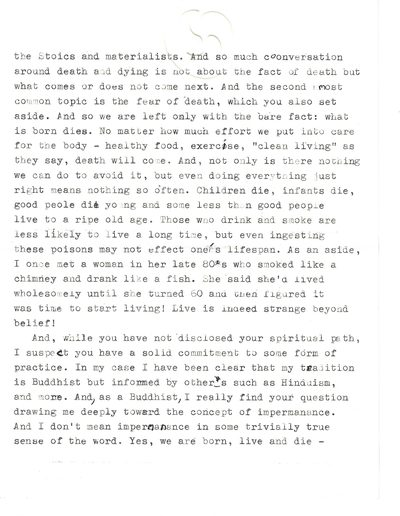
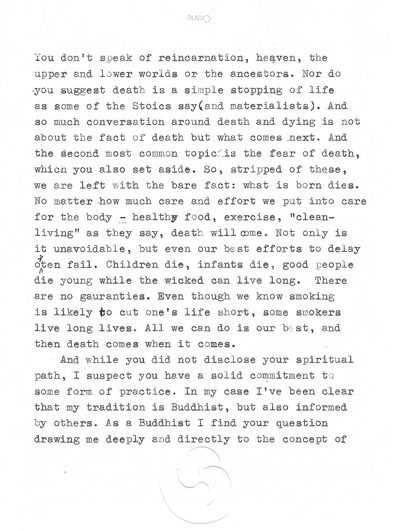
Add files via upload

Changed region(s): [[0.03, 0.093, 0.93, 0.8992], [0.45, 0.8992, 0.48, 0.9302]]

diff --git a/archive/001/index.html b/archive/001/index.html
@@ -87,13 +87,14 @@ h1.km-title { font-size: 24pt; font-weight: 700; text-align: center; margin-bott
   </div>
   <div class="km-section" id="reply-1">
     <h3>The Reply</h3>
-    <div class="km-page"><img src="../../images/correspondence/001_2026-09-20/reply_p1.jpg" alt="Reply from the Kalyanamitra, page 1 of 7 — Correspondence No. 1, So, What Is Death?"><div class="km-pagenum">Page 1 of 7</div></div>
-    <div class="km-page"><img src="../../images/correspondence/001_2026-09-20/reply_p2.jpg" alt="Reply from the Kalyanamitra, page 2 of 7 — Correspondence No. 1, So, What Is Death?"><div class="km-pagenum">Page 2 of 7</div></div>
-    <div class="km-page"><img src="../../images/correspondence/001_2026-09-20/reply_p3.jpg" alt="Reply from the Kalyanamitra, page 3 of 7 — Correspondence No. 1, So, What Is Death?"><div class="km-pagenum">Page 3 of 7</div></div>
-    <div class="km-page"><img src="../../images/correspondence/001_2026-09-20/reply_p4.jpg" alt="Reply from the Kalyanamitra, page 4 of 7 — Correspondence No. 1, So, What Is Death?"><div class="km-pagenum">Page 4 of 7</div></div>
-    <div class="km-page"><img src="../../images/correspondence/001_2026-09-20/reply_p5.jpg" alt="Reply from the Kalyanamitra, page 5 of 7 — Correspondence No. 1, So, What Is Death?"><div class="km-pagenum">Page 5 of 7</div></div>
-    <div class="km-page"><img src="../../images/correspondence/001_2026-09-20/reply_p6.jpg" alt="Reply from the Kalyanamitra, page 6 of 7 — Correspondence No. 1, So, What Is Death?"><div class="km-pagenum">Page 6 of 7</div></div>
-    <div class="km-page"><img src="../../images/correspondence/001_2026-09-20/reply_p7.jpg" alt="Reply from the Kalyanamitra, page 7 of 7 — Correspondence No. 1, So, What Is Death?"><div class="km-pagenum">Page 7 of 7</div></div>
+    <div class="km-page"><img src="../../images/correspondence/001_2026-09-20/reply_p1.jpg" alt="Reply from the Kalyanamitra, page 1 of 8 — Correspondence No. 1, So, What Is Death?"><div class="km-pagenum">Page 1 of 8</div></div>
+    <div class="km-page"><img src="../../images/correspondence/001_2026-09-20/reply_p2.jpg" alt="Reply from the Kalyanamitra, page 2 of 8 — Correspondence No. 1, So, What Is Death?"><div class="km-pagenum">Page 2 of 8</div></div>
+    <div class="km-page"><img src="../../images/correspondence/001_2026-09-20/reply_p3.jpg" alt="Reply from the Kalyanamitra, page 3 of 8 — Correspondence No. 1, So, What Is Death?"><div class="km-pagenum">Page 3 of 8</div></div>
+    <div class="km-page"><img src="../../images/correspondence/001_2026-09-20/reply_p4.jpg" alt="Reply from the Kalyanamitra, page 4 of 8 — Correspondence No. 1, So, What Is Death?"><div class="km-pagenum">Page 4 of 8</div></div>
+    <div class="km-page"><img src="../../images/correspondence/001_2026-09-20/reply_p5.jpg" alt="Reply from the Kalyanamitra, page 5 of 8 — Correspondence No. 1, So, What Is Death?"><div class="km-pagenum">Page 5 of 8</div></div>
+    <div class="km-page"><img src="../../images/correspondence/001_2026-09-20/reply_p6.jpg" alt="Reply from the Kalyanamitra, page 6 of 8 — Correspondence No. 1, So, What Is Death?"><div class="km-pagenum">Page 6 of 8</div></div>
+    <div class="km-page"><img src="../../images/correspondence/001_2026-09-20/reply_p7.jpg" alt="Reply from the Kalyanamitra, page 7 of 8 — Correspondence No. 1, So, What Is Death?"><div class="km-pagenum">Page 7 of 8</div></div>
+    <div class="km-page"><img src="../../images/correspondence/001_2026-09-20/reply_p8.jpg" alt="Reply from the Kalyanamitra, page 8 of 8 — Correspondence No. 1, So, What Is Death?"><div class="km-pagenum">Page 8 of 8</div></div>
   </div>
 </div>
 <div class="km-footer-nav">

diff --git a/posts/index.html b/posts/index.html
@@ -87,13 +87,14 @@ h1.km-title { font-size: 24pt; font-weight: 700; text-align: center; margin-bott
   </div>
   <div class="km-section" id="reply-1">
     <h3>The Reply</h3>
-    <div class="km-page"><img src="../images/correspondence/001_2026-09-20/reply_p1.jpg" alt="Reply from the Kalyanamitra, page 1 of 7 — Correspondence No. 1, So, What Is Death?"><div class="km-pagenum">Page 1 of 7</div></div>
-    <div class="km-page"><img src="../images/correspondence/001_2026-09-20/reply_p2.jpg" alt="Reply from the Kalyanamitra, page 2 of 7 — Correspondence No. 1, So, What Is Death?"><div class="km-pagenum">Page 2 of 7</div></div>
-    <div class="km-page"><img src="../images/correspondence/001_2026-09-20/reply_p3.jpg" alt="Reply from the Kalyanamitra, page 3 of 7 — Correspondence No. 1, So, What Is Death?"><div class="km-pagenum">Page 3 of 7</div></div>
-    <div class="km-page"><img src="../images/correspondence/001_2026-09-20/reply_p4.jpg" alt="Reply from the Kalyanamitra, page 4 of 7 — Correspondence No. 1, So, What Is Death?"><div class="km-pagenum">Page 4 of 7</div></div>
-    <div class="km-page"><img src="../images/correspondence/001_2026-09-20/reply_p5.jpg" alt="Reply from the Kalyanamitra, page 5 of 7 — Correspondence No. 1, So, What Is Death?"><div class="km-pagenum">Page 5 of 7</div></div>
-    <div class="km-page"><img src="../images/correspondence/001_2026-09-20/reply_p6.jpg" alt="Reply from the Kalyanamitra, page 6 of 7 — Correspondence No. 1, So, What Is Death?"><div class="km-pagenum">Page 6 of 7</div></div>
-    <div class="km-page"><img src="../images/correspondence/001_2026-09-20/reply_p7.jpg" alt="Reply from the Kalyanamitra, page 7 of 7 — Correspondence No. 1, So, What Is Death?"><div class="km-pagenum">Page 7 of 7</div></div>
+    <div class="km-page"><img src="../images/correspondence/001_2026-09-20/reply_p1.jpg" alt="Reply from the Kalyanamitra, page 1 of 8 — Correspondence No. 1, So, What Is Death?"><div class="km-pagenum">Page 1 of 8</div></div>
+    <div class="km-page"><img src="../images/correspondence/001_2026-09-20/reply_p2.jpg" alt="Reply from the Kalyanamitra, page 2 of 8 — Correspondence No. 1, So, What Is Death?"><div class="km-pagenum">Page 2 of 8</div></div>
+    <div class="km-page"><img src="../images/correspondence/001_2026-09-20/reply_p3.jpg" alt="Reply from the Kalyanamitra, page 3 of 8 — Correspondence No. 1, So, What Is Death?"><div class="km-pagenum">Page 3 of 8</div></div>
+    <div class="km-page"><img src="../images/correspondence/001_2026-09-20/reply_p4.jpg" alt="Reply from the Kalyanamitra, page 4 of 8 — Correspondence No. 1, So, What Is Death?"><div class="km-pagenum">Page 4 of 8</div></div>
+    <div class="km-page"><img src="../images/correspondence/001_2026-09-20/reply_p5.jpg" alt="Reply from the Kalyanamitra, page 5 of 8 — Correspondence No. 1, So, What Is Death?"><div class="km-pagenum">Page 5 of 8</div></div>
+    <div class="km-page"><img src="../images/correspondence/001_2026-09-20/reply_p6.jpg" alt="Reply from the Kalyanamitra, page 6 of 8 — Correspondence No. 1, So, What Is Death?"><div class="km-pagenum">Page 6 of 8</div></div>
+    <div class="km-page"><img src="../images/correspondence/001_2026-09-20/reply_p7.jpg" alt="Reply from the Kalyanamitra, page 7 of 8 — Correspondence No. 1, So, What Is Death?"><div class="km-pagenum">Page 7 of 8</div></div>
+    <div class="km-page"><img src="../images/correspondence/001_2026-09-20/reply_p8.jpg" alt="Reply from the Kalyanamitra, page 8 of 8 — Correspondence No. 1, So, What Is Death?"><div class="km-pagenum">Page 8 of 8</div></div>
   </div>
 </div>
 <div class="km-footer-nav">
